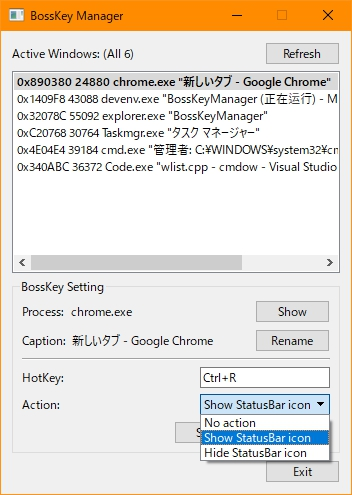
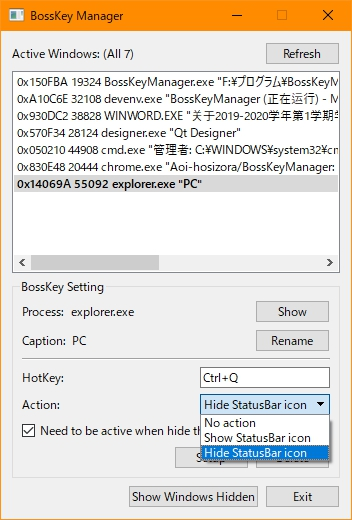
Add check active to action & hide window

Changed region(s): [[0.0, 0.0, 1.0, 0.3939], [0.0312, 0.4848, 0.9688, 1.0], [0.9062, 0.4848, 0.9688, 0.5455]]

diff --git a/MainDialog.cpp b/MainDialog.cpp
@@ -6,6 +6,8 @@
 #include <QtWidgets/QMessageBox>
 #include <QtWidgets/QInputDialog>
 #include <QtWidgets/QKeySequenceEdit>
+#include <QtWidgets/QCheckBox>
+#include <QCloseEvent>
 #include "qxtglobalshortcut.h"
 
 using namespace std;
@@ -58,6 +60,7 @@ void MainDialog::on_listWidget_currentRowChanged(int idx) {
 		else
 			ui.comboBox_Action->setCurrentIndex(0);
 		ui.hotKeyEdit->setKeySequence(Global::CurrWnd->hotkey);
+		ui.checkBox_ActiveToHide->setChecked(Global::CurrWnd->needActive);		
 	}
 
 	ui.groupBox->setEnabled(idx != -1);
@@ -66,6 +69,25 @@ void MainDialog::on_listWidget_currentRowChanged(int idx) {
 
 // 刷新
 void MainDialog::on_pushButton_Refresh_clicked() {
+	// 判断是否有被隐藏的窗口
+	bool ok = true;
+	foreach (Wnd wnd, Global::WindowsList) {
+		if (!IsWindowVisible(wnd.hnd))
+			ok = false;
+	}
+	if (!ok) {
+		QMessageBox::StandardButton result = QMessageBox::information(this, "Refresh", 
+			QString("%1\n%2")
+				.arg(tr("There are some windows hidden by the bosskey. \n"))
+				.arg(tr("You should show them to refresh the list.")), 
+			QMessageBox::Yes | QMessageBox::No, QMessageBox::Yes);
+		// 不刷新
+		if (result == QMessageBox::No) return;
+		else {
+			// 显示后刷新
+			on_pushButton_ShowAllWindowsHidden_clicked();
+		}
+	}
 	loadWindowsList();
 }
 
@@ -119,7 +141,9 @@ void MainDialog::on_pushButton_Setup_clicked() {
 			Global::CurrWnd->actionhk = WndBKType::SHOW_STATUSBAR_ICON;
 		else if (combo == Global::HIDE_STATUSBAR_ICON)
 			Global::CurrWnd->actionhk = WndBKType::HIDE_STATUSBAR_ICON;
+		Global::CurrWnd->needActive = ui.checkBox_ActiveToHide->isChecked();
 	}
+
 	QListWidgetItem *curr = ui.listWidget->selectedItems().at(0);
 	QFont b = curr->font();
 	b.setBold(combo != Global::NO_ACTION);
@@ -130,12 +154,28 @@ void MainDialog::on_pushButton_Setup_clicked() {
 
 // 删除状态
 void MainDialog::on_pushButton_Delete_clicked() {
+	// 删除状态解除窗口隐藏
+	if (!IsWindowVisible(Global::CurrWnd->hnd)) {
+		QMessageBox::StandardButton result = QMessageBox::information(this, "Refresh", 
+			QString("%1\n%2")
+				.arg(tr("This window is hidden by the bosskey. \n"))
+				.arg(tr("Before delete the setting, you should show it.")), 
+			QMessageBox::Yes | QMessageBox::No, QMessageBox::Yes);
+		// 不刷新
+		if (result == QMessageBox::No) return;
+		else {
+			// 显示后刷新
+			on_pushButton_ShowAllWindowsHidden_clicked();
+		}
+	}
+
 	Global::CurrWnd->actionhk = WndBKType::NO_ACTION;
 	ui.comboBox_Action->setCurrentIndex(0);
 
 	unSetupHotKey(Global::CurrWnd->hotkey);
 	Global::CurrWnd->hotkey = QKeySequence::NoMatch;
 	ui.hotKeyEdit->setKeySequence(QKeySequence::NoMatch);
+	Global::CurrWnd->needActive = false;
 
 	QListWidgetItem *curr = ui.listWidget->selectedItems().at(0);
 	QFont b = curr->font();
@@ -143,6 +183,43 @@ void MainDialog::on_pushButton_Delete_clicked() {
 	curr->setFont(b);
 
 	on_listWidget_currentRowChanged(ui.listWidget->currentRow());
+}
+
+// 显示所有隐藏
+void MainDialog::on_pushButton_ShowAllWindowsHidden_clicked() {
+	int cnt = 0;
+	foreach (Wnd wnd, Global::WindowsList) {
+		if (!IsWindowVisible(wnd.hnd)) {
+			cnt++;
+			Utils::UnHideWindow(wnd.hnd);
+		}
+	}
+	if (cnt == 0)
+		QMessageBox::information(this, "Show", 
+			"There is no window hidden.");
+	else
+		QMessageBox::information(this, "Show", 
+			(cnt == 1) ? "1 window shown finished" : QString("%1%2").arg(cnt).arg(" windows shown finished"));
+}
+
+// 窗口关闭
+void MainDialog::closeEvent(QCloseEvent *e) {
+	// 判断是否有被隐藏的窗口
+	bool ok = true;
+	foreach (Wnd wnd, Global::WindowsList) {
+		if (!IsWindowVisible(wnd.hnd))
+			ok = false;
+	}
+	if (!ok) {
+		QMessageBox::information(this, "Refresh", 
+			QString("%1\n%2")
+			.arg(tr("There are some windows hidden by the bosskey. \n"))
+			.arg(tr("Before close the program, you should show them.")), 
+			QMessageBox::Yes);
+		e->ignore();
+	}
+	else
+		e->accept();
 }
 
 #pragma endregion UI Interaction
@@ -184,15 +261,23 @@ bool MainDialog::setupHotKey(QKeySequence key) {
 				if (wnd.actionhk != WndBKType::NO_ACTION && wnd.hotkey == key) {
 					// 状态栏显示
 					if (wnd.actionhk == WndBKType::SHOW_STATUSBAR_ICON) {
+						// 需要活动窗口去隐藏
+						if (wnd.needActive && wnd.hnd != GetForegroundWindow()) 
+							return;
+
 						if (IsIconic(wnd.hnd))
-							Utils::SetFGWindow(wnd.hnd);
+							Utils::RestoreWindow(wnd.hnd);
 						else
 							Utils::MinimizeWindow(wnd.hnd);
 					} 
 					// 状态栏不显示
 					else {
-						if (IsWindowVisible(wnd.hnd))
+						if (IsWindowVisible(wnd.hnd)) {
+							// 需要活动窗口去隐藏
+							if (wnd.needActive && wnd.hnd != GetForegroundWindow()) 
+								return;
 							Utils::HideWindow(wnd.hnd);
+						}
 						else // TODO 更好的方法
 							Utils::UnHideWindow(wnd.hnd);
 					}

diff --git a/Wnd.h b/Wnd.h
@@ -23,11 +23,12 @@ public:
 
 	WndBKType actionhk;
 	QKeySequence hotkey;
+	bool needActive;
 
 
 	Wnd(HWND hnd, QString caption, int pid, QString image) 
 		: hnd(hnd), caption(caption), pid(pid), image(image),
-		actionhk(WndBKType::NO_ACTION), hotkey(QKeySequence::NoMatch) {}
+		actionhk(WndBKType::NO_ACTION), hotkey(QKeySequence::NoMatch), needActive(false) {}
 
 	QString toQString() {
 		QString h = QString("0x%1").arg(QString("%1").arg((int) hnd, 6, 16, QLatin1Char('0')).toUpper());

diff --git a/Utils.hpp b/Utils.hpp
@@ -137,6 +137,11 @@ public:
 		ShowWindowAsync(hwnd, SW_MINIMIZE);
 	}
 
+	// 还原窗口
+	static void RestoreWindow(HWND hwnd) {
+		ShowWindowAsync(hwnd, SW_RESTORE);
+	}
+
 	// 隐藏窗口 状态栏不可见
 	static void HideWindow(HWND hwnd) {
 		ShowWindowAsync(hwnd, SW_HIDE);

diff --git a/MainDialog.h b/MainDialog.h
@@ -22,6 +22,8 @@ private slots:
 	void on_pushButton_Rename_clicked();
 	void on_pushButton_Setup_clicked();
 	void on_pushButton_Delete_clicked();
+	void on_pushButton_ShowAllWindowsHidden_clicked();
+	void closeEvent(QCloseEvent *) override;
 
 private:
 	Ui::MainDialogClass ui;

diff --git a/readme.md b/readme.md
@@ -1,6 +1,11 @@
 # BossKeyManager
 + A boss key manager for the programs shown in the taskbar
 
+### Environment
++ `QT 5.5.1 32-bit (MSVC 2010)`
++ `Windows 10 Version 1803`
++ `QxtGlobalShortcut for QT5`
+
 ### Support actions
 + Minimize the window directly and the icon in taskbar will not hide
 	+ `ShowWindowAsync(hwnd, SW_MINIMIZE)`
@@ -8,13 +13,18 @@
 + Hide the window directly and the icon in taskbar also
 	+ `ShowWindowAsync(hwnd, SW_HIDE)`
 
++ Check the window active when action
+	+ `wnd.needActive && wnd.hnd != GetForegroundWindow()`
+
 ### Screenshot
 
 ![Screenshot](./assets/Screenshot.jpg)
 
+![Screenshot2](./assets/Screenshot2.jpg)
+
 ### References
-+ [Limit QKeySequence/QKeySequenceEdit to only one shortcut](https://stackoverflow.com/questions/30006562/limit-qkeysequence-qkeysequenceedit-to-only-one-shortcut)
 + [cmdow](https://github.com/ritchielawrence/cmdow)
++ [qxtglobalshortcut5](https://github.com/ddqd/qxtglobalshortcut5)
++ [Limit QKeySequence/QKeySequenceEdit to only one shortcut](https://stackoverflow.com/questions/30006562/limit-qkeysequence-qkeysequenceedit-to-only-one-shortcut)
 + [getting-a-list-of-all-open-windows-in-c-and-storing-them](https://stackoverflow.com/questions/42589496/getting-a-list-of-all-open-windows-in-c-and-storing-them)
 + [获取 Windows 操作系统当前所有进程PID、进程名称](https://blog.csdn.net/kingkee/article/details/98115433)
-+ [qxtglobalshortcut5](https://github.com/ddqd/qxtglobalshortcut5)
